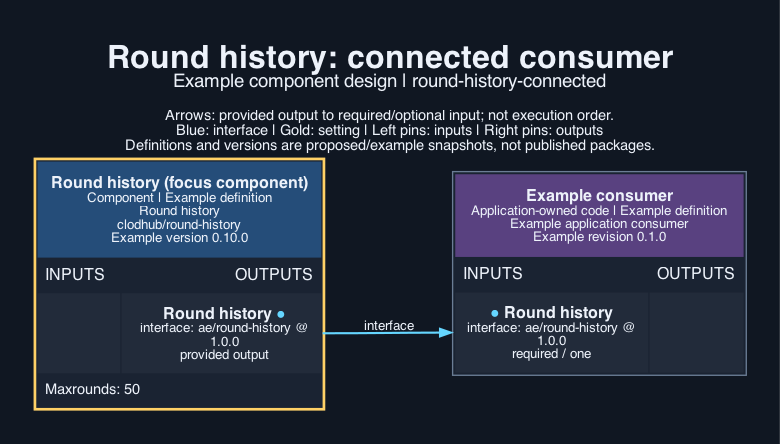
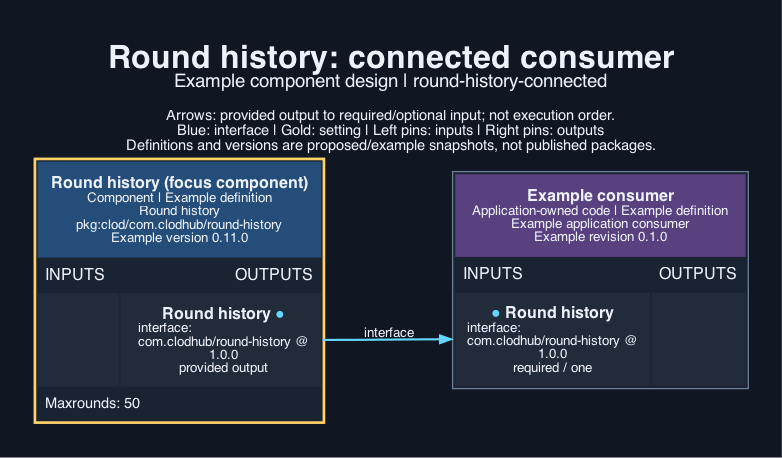
round-history 0.11.0: package URL names, clod, com.clodhub interface types and Kotlin packages

Changed region(s): [[0.0308, 0.2342, 0.9538, 0.9369], [0.1231, 0.0878, 0.8615, 0.205], [0.0, 0.9955, 1.0, 1.0]]

diff --git a/tests/android/Main.kt b/tests/android/Main.kt
@@ -1,6 +1,6 @@
-import ae.history.HistoryEntry
-import ae.history.HistoryWinner
-import ae.history.RoundHistory
+import com.clodhub.history.HistoryEntry
+import com.clodhub.history.HistoryWinner
+import com.clodhub.history.RoundHistory
 import java.io.File
 
 // The fixture keeps one entry per line, so a line pattern is enough to read it without a JSON library.

diff --git a/implementation/android/src/main/java/com/clodhub/history/RoundHistory.kt b/implementation/android/src/main/java/com/clodhub/history/RoundHistory.kt
@@ -1,4 +1,4 @@
-package ae.history
+package com.clodhub.history
 
 // A round's result as the server sends it in the view's `history` list. Add kotlinx.serialization's
 // @Serializable to both classes when decoding the wire format directly (the recipe does).

diff --git a/SOURCE.md b/SOURCE.md
@@ -9,7 +9,7 @@ Reference revision: `19905b75dbea89fbfd424d67fe26c81aaed0e018`. Extraction sourc
   - Left behind: `HandResult` and `HandResultView` (`engine.ts:70-79`, `contract.ts:135-144`: the board, pots and showdown detail of the last hand, which belong to the game's own view), the code that decides winners (`engine.ts:882-917`, holdem-rules and chip-ledger), the history panel UI (`web/src/table.ts` and the table screens; recipe screens).
   - `create`, `push`, `list`, `createHistoryApi`, `RoundEntry.extra` (`generated-adapter`): written to turn-engine's `Parts` schema (`interfaces/game-adapter.json` in `clodhub/turn-engine`). The recipe pushes `{no, level, winners, voided}` at `engine.ts:405`; the engine form takes `{no, level, voided, ...game fields}` and keeps the game fields in `extra`. Nothing in the recipe corresponds to the extra fields.
 - `implementation/apple/Sources/RoundHistory.swift` <- `ios/OurPoker/Sources/Model.swift:203-213` (`HistoryWinner`, `HistoryEntry`, both `Decodable, Hashable`) and `Model.swift:245` (`let history: [HistoryEntry]`). Generalised: `public`, memberwise `init`s added, plus a bounded `RoundHistory` struct and `chipsWon()` so a client can keep the same bound as the server (new; the recipe client displays whatever the server sends).
-- `implementation/android/src/main/java/ae/history/RoundHistory.kt` <- `android/app/src/main/java/app/ourapps/ourpoker/net/Model.kt:145-149` (`HistoryEntry`, `HistoryWinner`, both `@Serializable` in the recipe) and `Model.kt:175` (`history: List<HistoryEntry> = emptyList()`). Generalised: the `@Serializable` annotations are left to the application so the component needs no serialization plugin; same `RoundHistory` addition as Apple. Not compiled here (no kotlinc).
+- `implementation/android/src/main/java/com/clodhub/history/RoundHistory.kt` <- `android/app/src/main/java/app/ourapps/ourpoker/net/Model.kt:145-149` (`HistoryEntry`, `HistoryWinner`, both `@Serializable` in the recipe) and `Model.kt:175` (`history: List<HistoryEntry> = emptyList()`). Generalised: the `@Serializable` annotations are left to the application so the component needs no serialization plugin; same `RoundHistory` addition as Apple. Not compiled here (no kotlinc).
 - `tests/fixtures/rounds.json`: new; five rounds including a voided one, bound 3, expected kept numbers and totals; read by all three test suites.
 - `tests/web.test.ts`, `tests/apple/main.swift`, `tests/android/Main.kt`, `tests/native.py`: new (native.py as in `tests/native.py` in `clodhub/store-update`).
 - `examples/consumer.ts`: new; records a session with a voided round and ranks winners.

diff --git a/CONTRACT.md b/CONTRACT.md
@@ -13,7 +13,7 @@ The installer collects one setting: `maxRounds`, how many rounds to keep (whole 
 ## Artefacts and dependencies
 `component.json` maps every `implementation/` source into `components/round-history/`:
 
-- `implementation/android/src/main/java/ae/history/RoundHistory.kt` -> `components/round-history/android/src/main/java/ae/history/RoundHistory.kt`
+- `implementation/android/src/main/java/com/clodhub/history/RoundHistory.kt` -> `components/round-history/android/src/main/java/com/clodhub/history/RoundHistory.kt`
 - `implementation/apple/Sources/RoundHistory.swift` -> `components/round-history/apple/Sources/RoundHistory.swift`
 - `implementation/server/history.ts` -> `components/round-history/server/history.ts`
 
@@ -21,8 +21,8 @@ Dependencies: none.
 `tools.lock.json` pins verification tools: node 26.5, python3 3.12, swiftc 6.4, kotlinc 2.2, java 26.0. Licence: `Apache-2.0` (`LICENCE`, `NOTICE`).
 
 ## Provided interfaces
-- `interfaces/round-history.json` defines `round-history` (ae/round-history) version 1.0.0: an OpenRPC 1.3.2 document, one method per function (a member of a created object is `<Type>.<member>`), with parameter, result and data types as JSON Schema 2020-12 (`components.schemas`) and thrown errors under `errors`.
-- `interfaces/round.schema.json` (ae/round-history-records 1.0.0) is a JSON Schema 2020-12 document of one line of the ndjson export.
+- `interfaces/round-history.json` defines `round-history` (com.clodhub/round-history) version 1.0.0: an OpenRPC 1.3.2 document, one method per function (a member of a created object is `<Type>.<member>`), with parameter, result and data types as JSON Schema 2020-12 (`components.schemas`) and thrown errors under `errors`.
+- `interfaces/round.schema.json` (com.clodhub/round-history-records 1.0.0) is a JSON Schema 2020-12 document of one line of the ndjson export.
 
 ## Required interfaces
 None.

diff --git a/INSTRUCTIONS.md b/INSTRUCTIONS.md
@@ -3,10 +3,10 @@
 ## For the agent
 Select this component for any game that shows past rounds. Set `maxRounds` from the recipe (hold'em: 50). Connect the provided `round-history` to the turn engine. Include the Apple and Android files only when those client targets are selected.
 
-- Select package `clodhub/round-history` version `0.10.0`.
+- Select package `pkg:clod/com.clodhub/round-history` version `0.11.0`.
 - Settings to configure:
   - `maxRounds` (integer; optional; default `50`)
-- Connect the provided `round-history` (ae/round-history 1.0.0) to the consumer that needs it.
+- Connect the provided `round-history` (com.clodhub/round-history 1.0.0) to the consumer that needs it.
 - No accounts or keys are needed.
 
 ## For the developer
@@ -18,4 +18,4 @@ From the component directory:
 - `node --test tests/web.test.ts` (web, required-local; tools: node 26.5)
 - `python3 tests/native.py apple` (apple, platform; tools: python3 3.12, swiftc 6.4)
 - `python3 tests/native.py android` (android, platform; tools: python3 3.12, kotlinc 2.2, java 26.0)
-- `python3 -m aepm review <digest> --store STORE --policy POLICY --trusted --allow-network` checks an archive fetched with `python3 -m aepm fetch clodhub/round-history@VERSION --store STORE --from https://clodhub.com` and runs its suites.
+- `python3 -m clod review <digest> --store STORE --policy POLICY --trusted --allow-network` checks an archive fetched with `python3 -m clod fetch round-history@VERSION --store STORE --from https://clodhub.com` and runs its suites.

diff --git a/.opencode/knowledge/00-index.md b/.opencode/knowledge/00-index.md
@@ -1,5 +1,5 @@
 # round-history ownership
 
 Repository: https://github.com/clodhub/round-history.git.
-Current code: `implementation/android/src/main/java/ae/history/RoundHistory.kt`, `implementation/apple/Sources/RoundHistory.swift`, `implementation/server/history.ts`.
+Current code: `implementation/android/src/main/java/com/clodhub/history/RoundHistory.kt`, `implementation/apple/Sources/RoundHistory.swift`, `implementation/server/history.ts`.
 `component.json`, `tools.lock.json` and `visual/` are generated from `authoring/spec.json`; edit the spec, not the generated files. `CONTRACT.md`, `INSTRUCTIONS.md` and `SOURCE.md` are hand-written and kept on regeneration.

diff --git a/visual/output/description.md b/visual/output/description.md
@@ -1,3 +1,3 @@
 # Round history
 
-The round-history component at version 0.10.0 provides ae/round-history version 1.0.0 to an illustrative application consumer. The single arrow runs from the named output to its required input. Setting values shown are placeholders and secrets appear only as references.
+The round-history component at version 0.11.0 provides com.clodhub/round-history version 1.0.0 to an illustrative application consumer. The single arrow runs from the named output to its required input. Setting values shown are placeholders and secrets appear only as references.

diff --git a/.opencode/knowledge/workflow.md b/.opencode/knowledge/workflow.md
@@ -2,5 +2,5 @@
 
 Repository: `clodhub/round-history`. Licence: `Apache-2.0` (`LICENCE`, `NOTICE`).
 Suite commands (from the package root): `node --test tests/web.test.ts`; `python3 tests/native.py apple`; `python3 tests/native.py android`.
-Review a fetched archive: `python3 -m aepm review <digest> --store STORE --policy POLICY --trusted --allow-network`.
+Review a fetched archive: `python3 -m clod review <digest> --store STORE --policy POLICY --trusted --allow-network`.
 Always run Python with `-B`; never write bytecode into the repository.
